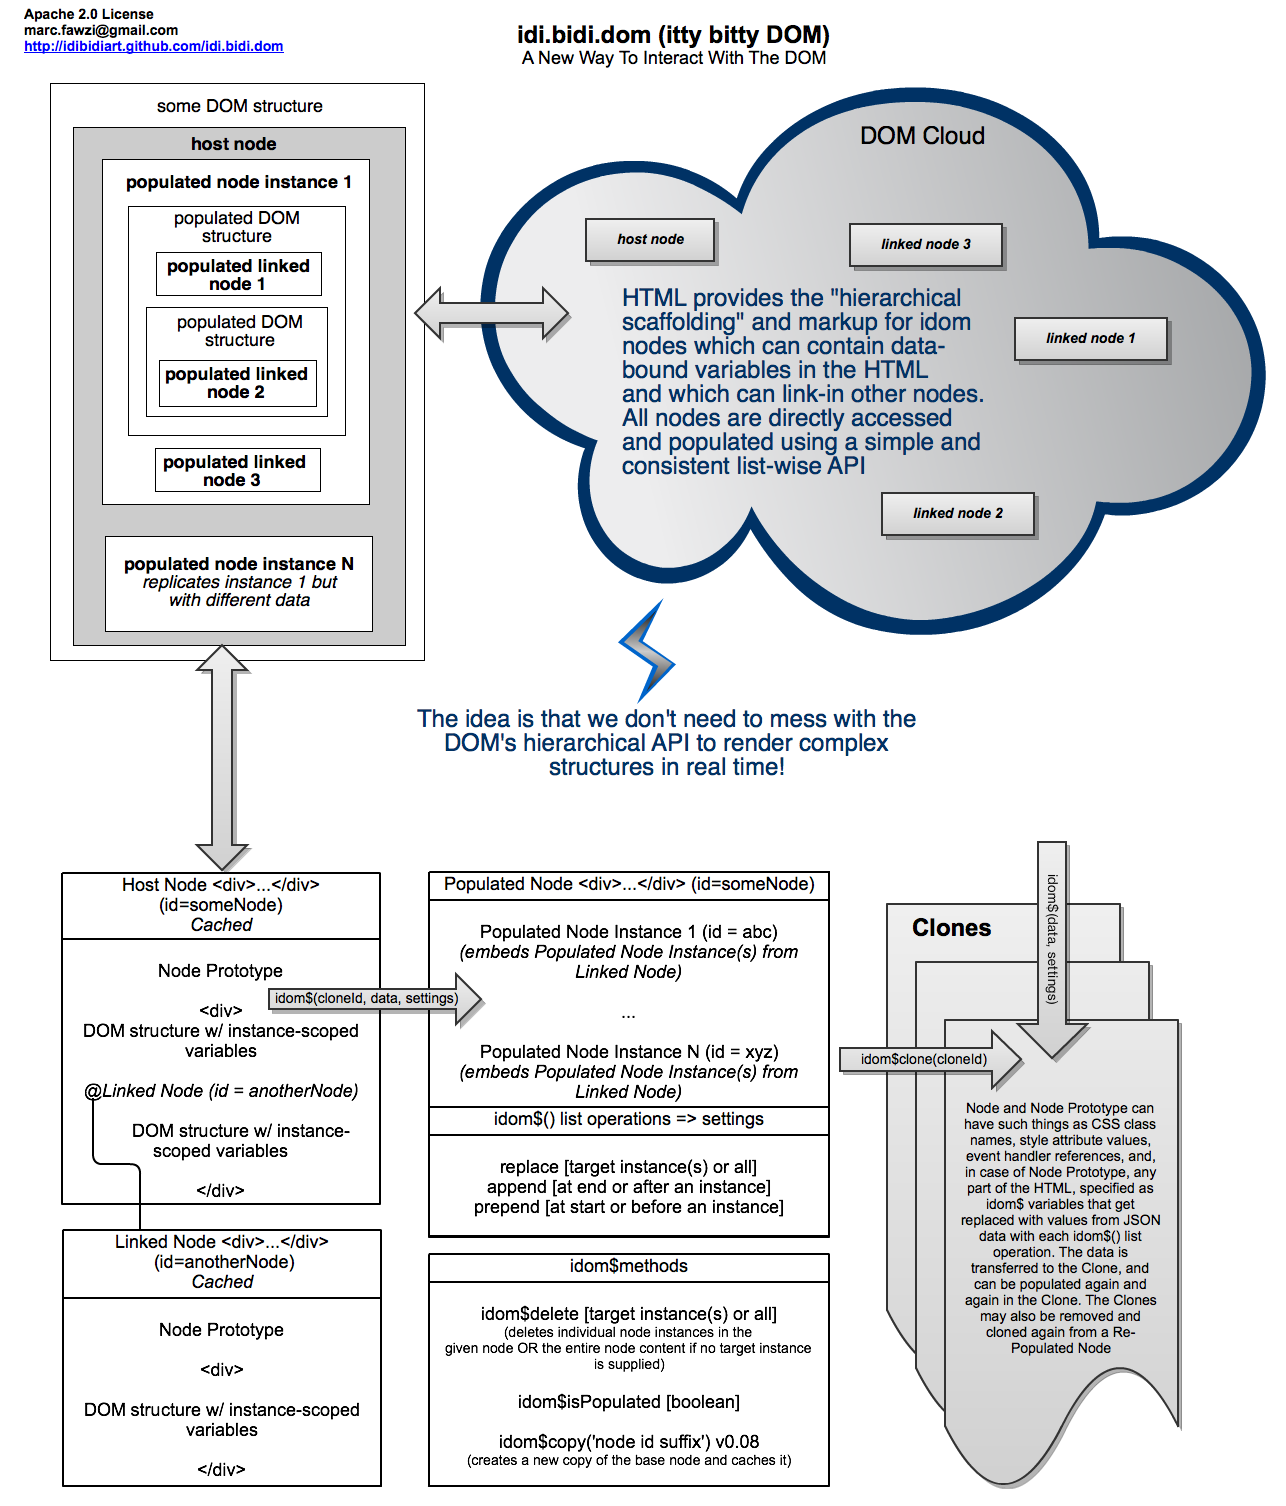
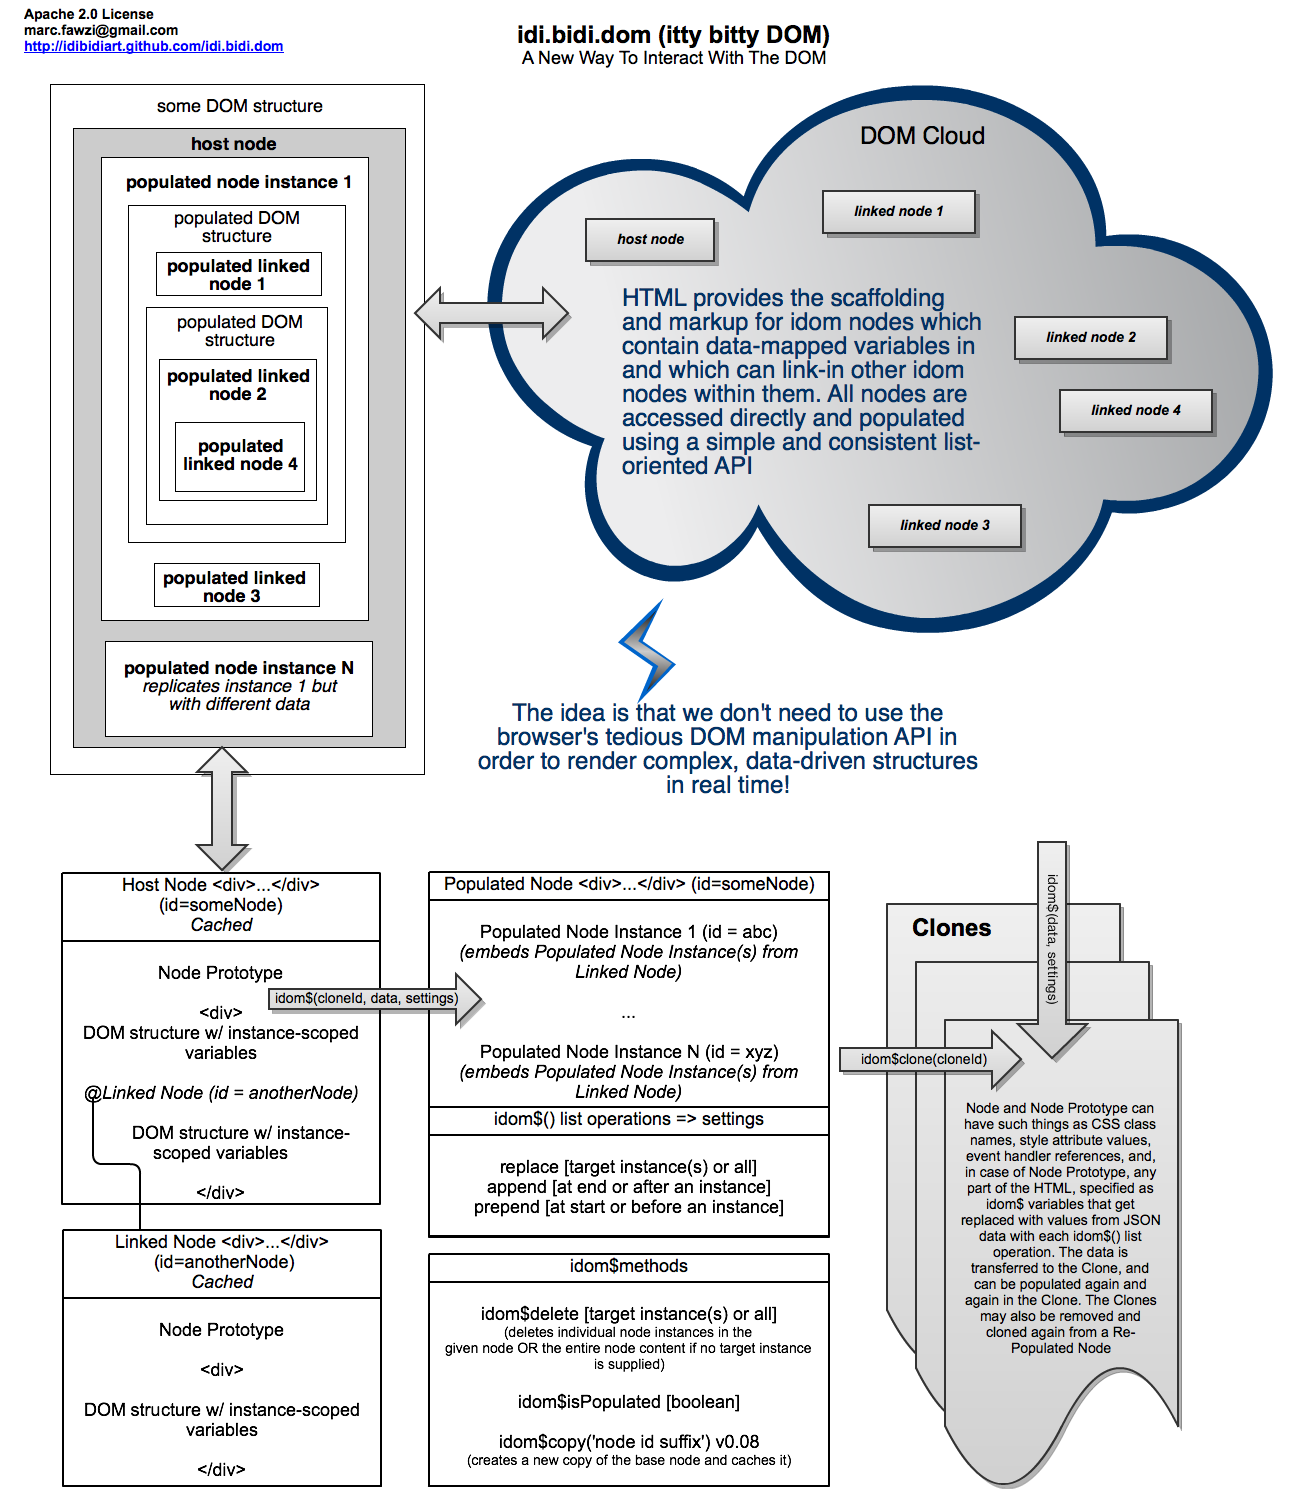
updated diagram in preparation for 0.8

diff --git a/idom.js b/idom.js
@@ -1221,7 +1221,7 @@ Element.prototype.idom$ = Element.prototype.idom$ || function() {
 							
 							var err = new Error;
 							
-							err.message = "can't have a linked node within a linked node";
+							err.message = "can't have a linked node within a linked node... until v0.08 (pending feature)";
 							 
 							throw err.message + '\n' + err.stack;
 						}
